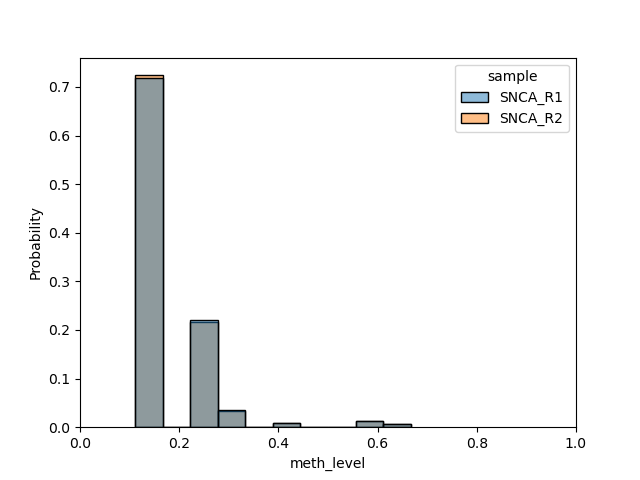
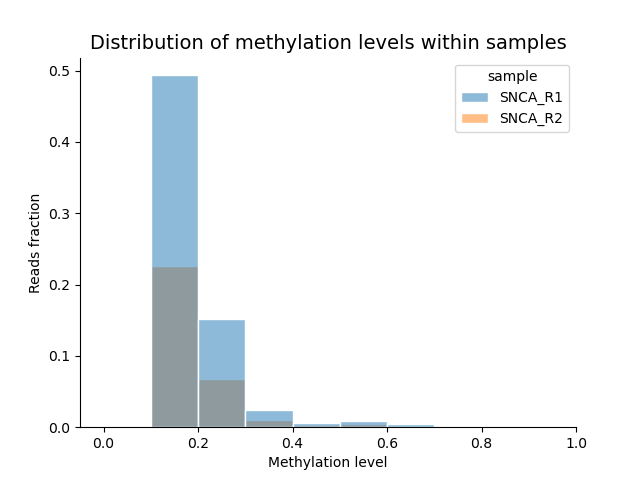
small stuf

diff --git a/utils/histogram.py b/utils/histogram.py
@@ -49,6 +49,7 @@ def _generate_histogram(data: pd.DataFrame):
     palette = sns.color_palette("Paired") # ("Blues", 9)
     ax = sns.histplot(data, x='meth_level',
         stat="probability",
+        common_norm=False,
         bins=10,
         binrange=(0,1.),
         color=palette[2],
@@ -68,19 +69,31 @@ def _generate_histogram(data: pd.DataFrame):
         fontweight="normal", #'normal' | 'bold' | 'heavy' | 'light' | 'ultrabold' | 'ultralight'
         )
     sns.despine()
-    return ax
+    return
 
 def _generate_histogram_multiple_data(data: pd.DataFrame):
-    fig, ax = plt.subplots()
-    sns.histplot(
-        data=data,
-        x="meth_level",
+    plt.close("all")
+    palette = sns.color_palette("Paired") # ("Blues", 9)
+    ax = sns.histplot(data,
+        x='meth_level',
         hue="sample",
-        bins=10,
         stat="probability",
-        common_norm=False,
+        bins=10,
+        binrange=(0,1.),
+        color=palette[2],
+        edgecolor="white", # palette[3],
+        linewidth=1,
         kde=False,
-        ax=ax,
+        cbar=True,
+        # cbar_kws=dict(shrink=.75),
     )
-    ax.set_xlim(0,1)
-    return ax
+    ax.set_xlim(-0.05,1)
+    ax.set_xlabel("Methylation level")
+    ax.set_ylabel("Reads fraction")
+    ax.set_title("Distribution of methylation levels within samples", 
+        fontsize=14,
+        color="black", # palette[3]
+        fontweight="normal", #'normal' | 'bold' | 'heavy' | 'light' | 'ultrabold' | 'ultralight'
+        )
+    sns.despine()
+    return

diff --git a/utils/heatmap.py b/utils/heatmap.py
@@ -19,7 +19,7 @@ class SimpleHeatmapMaker:
         for data in methdata.data:
             sorted_reads = _get_random_reads_for_heatmap(data, reads2plot)
             xaxisRange = len(data.meth_patterns[0])
-            ax = _generate_heatmap(data=sorted_reads, xrange=xaxisRange)
+            _generate_heatmap(sorted_reads, xaxisRange)
             plt.savefig(data.file_name.strip(".sam") + "_heatmap.png")
 
 
@@ -44,7 +44,7 @@ def _get_random_reads_for_heatmap(methdata: OneSampleMethylationData, reads2plot
 def _generate_heatmap(data: list, xrange: int, color="copper"):
     plt.close("all")
     reads_number = len(data)
-    fig, ax = plt.subplots(figsize=(9, 6))
+    fig, ax = plt.subplots(figsize=(6, 4))
     sns.heatmap(
         data,
         annot=False,
@@ -58,6 +58,10 @@ def _generate_heatmap(data: list, xrange: int, color="copper"):
     )
     ax.set_xlabel("CpG site")
     ax.set_ylabel(f"Reads ({reads_number})")
-    ax.set_title("Methylation of individual amplicons")
+    ax.set_title("Methylation of individual reads",
+        fontsize=14,
+        color="black", # palette[3]
+        fontweight="normal", #'normal' | 'bold' | 'heavy' | 'light' | 'ultrabold' | 'ultralight'    
+    )
     plt.tight_layout()
-    return ax
+    return

diff --git a/allelicMeth.py b/allelicMeth.py
@@ -86,7 +86,7 @@ def main():
     ####################################################################################
     coordinates = get_coordinates(fastafile[0])
     meth_data = MethylationData()
-    extract_meth(coordinates=coordinates, samfiles=samfiles, storage=meth_data)
+    extract_meth(coordinates, samfiles, meth_data)
     make_histogram(meth_data, histmode)
     make_heatmap(meth_data, SimpleHeatmapMaker(), reads2plot)
     save_data(meth_data, WriteMethlation2CSV())
